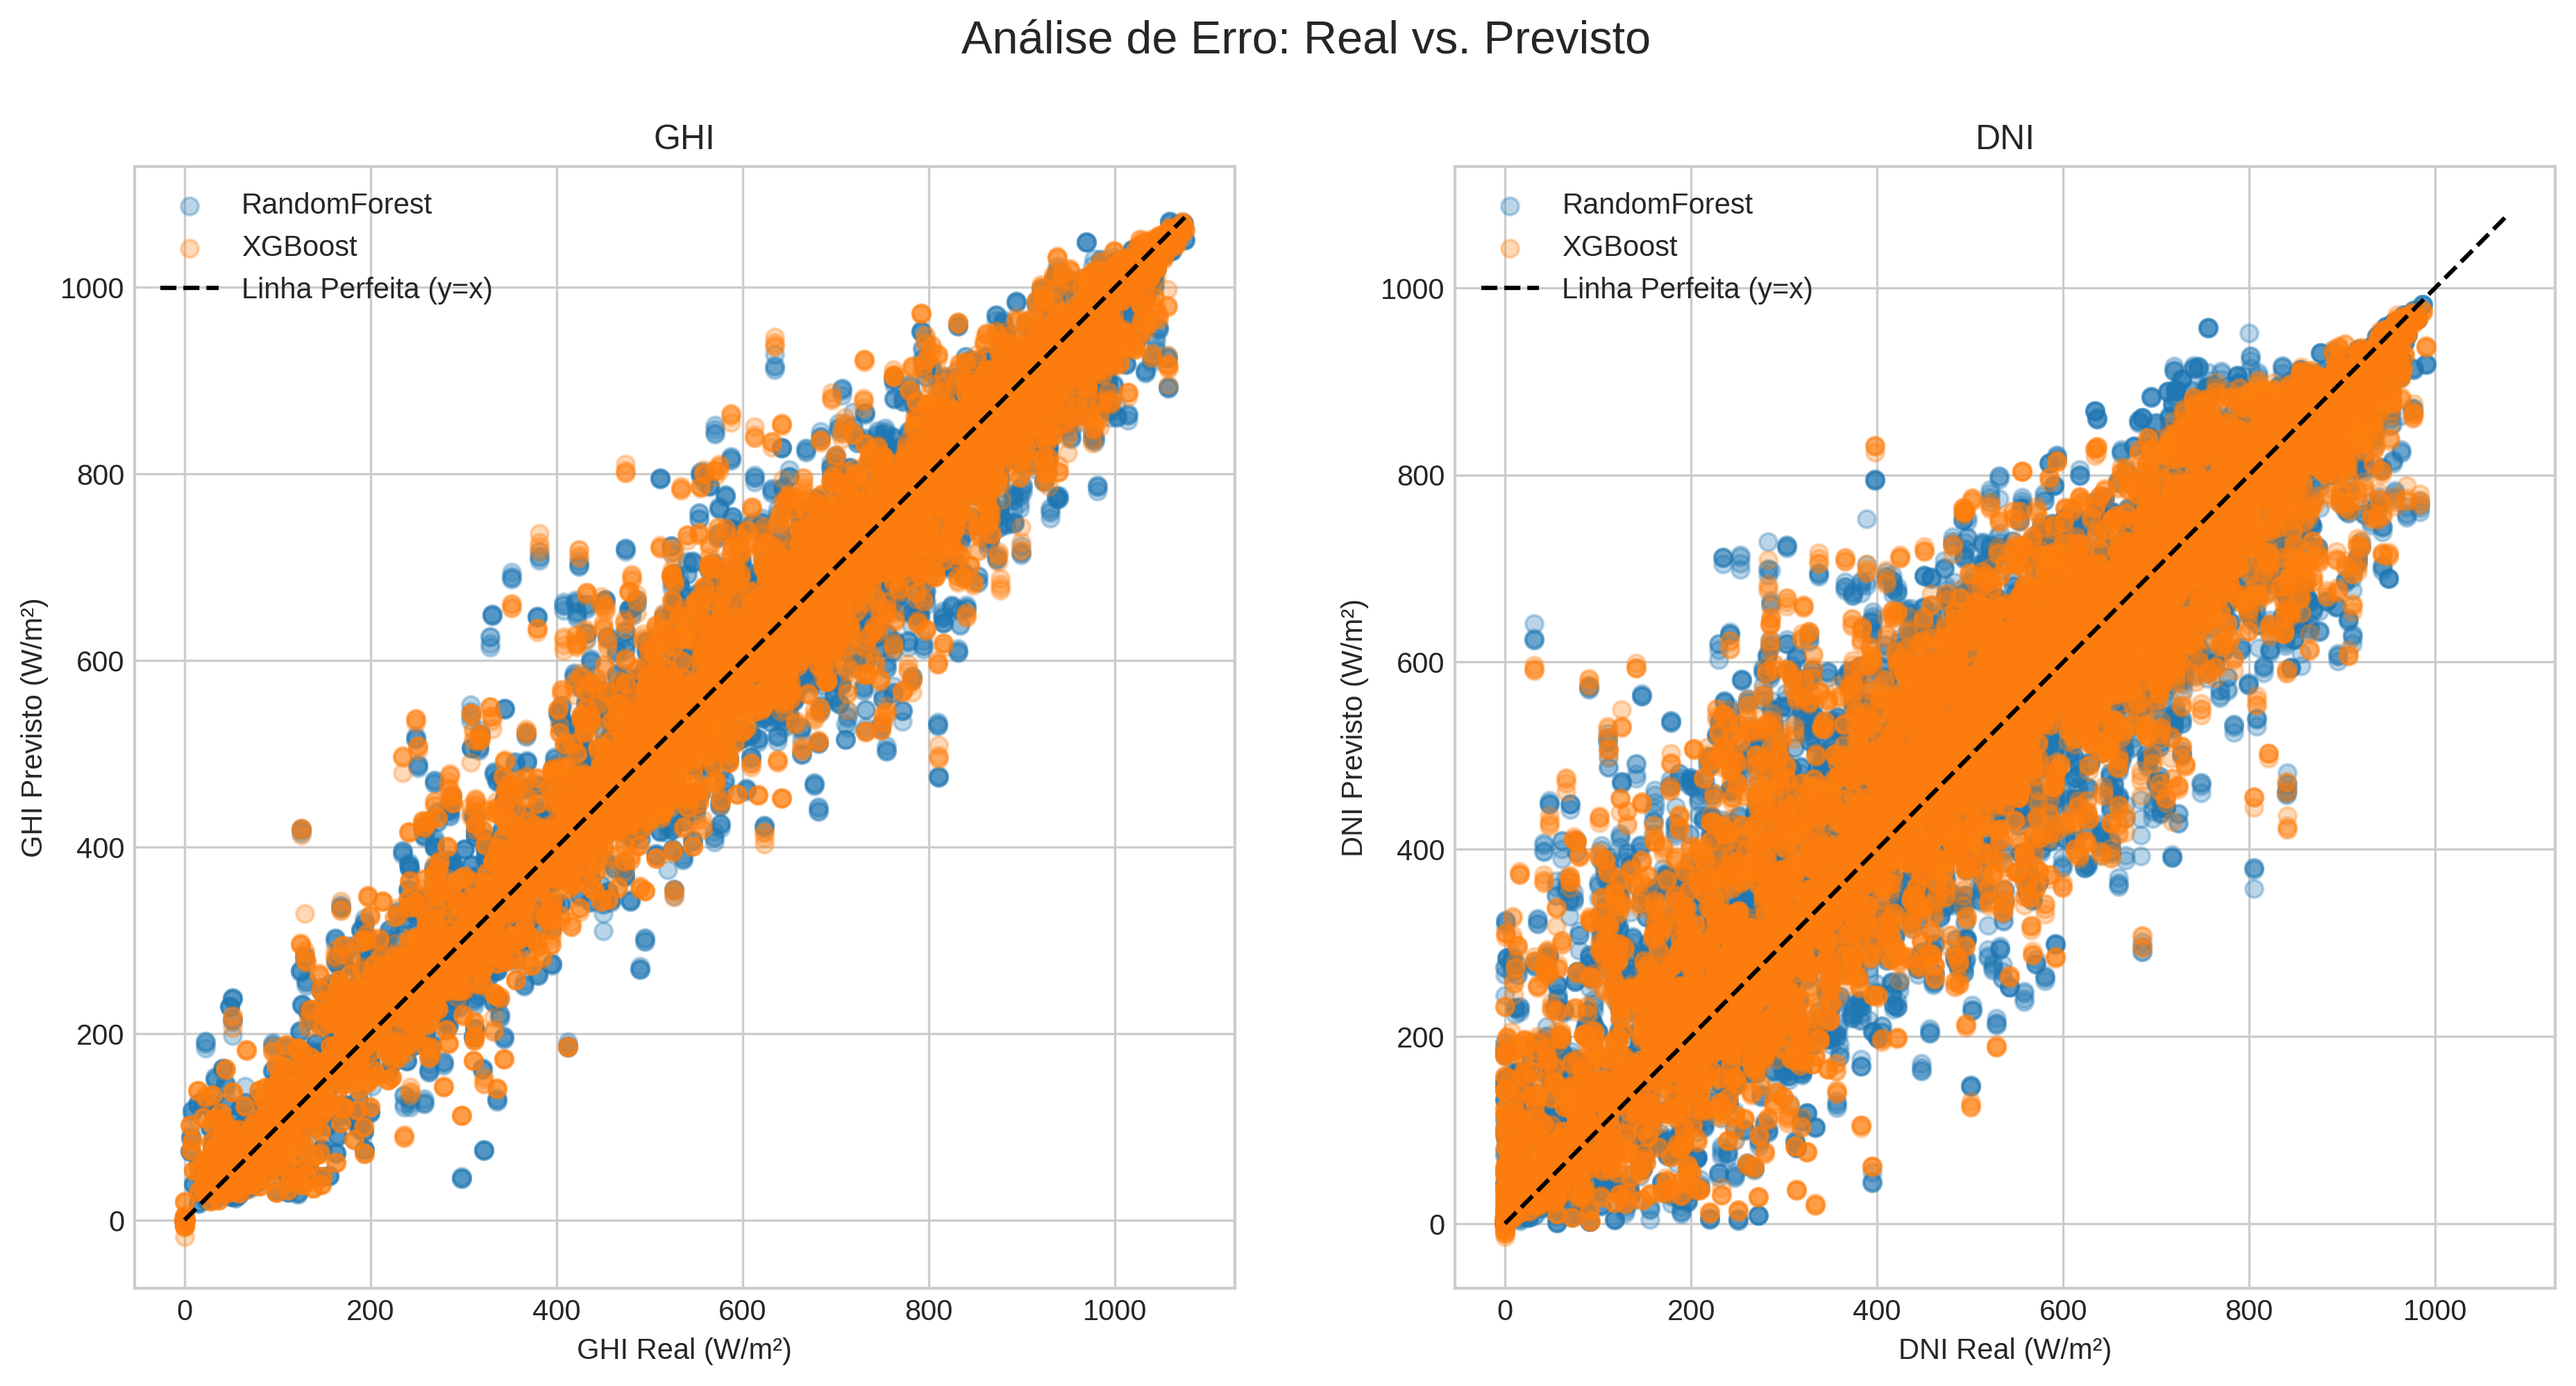
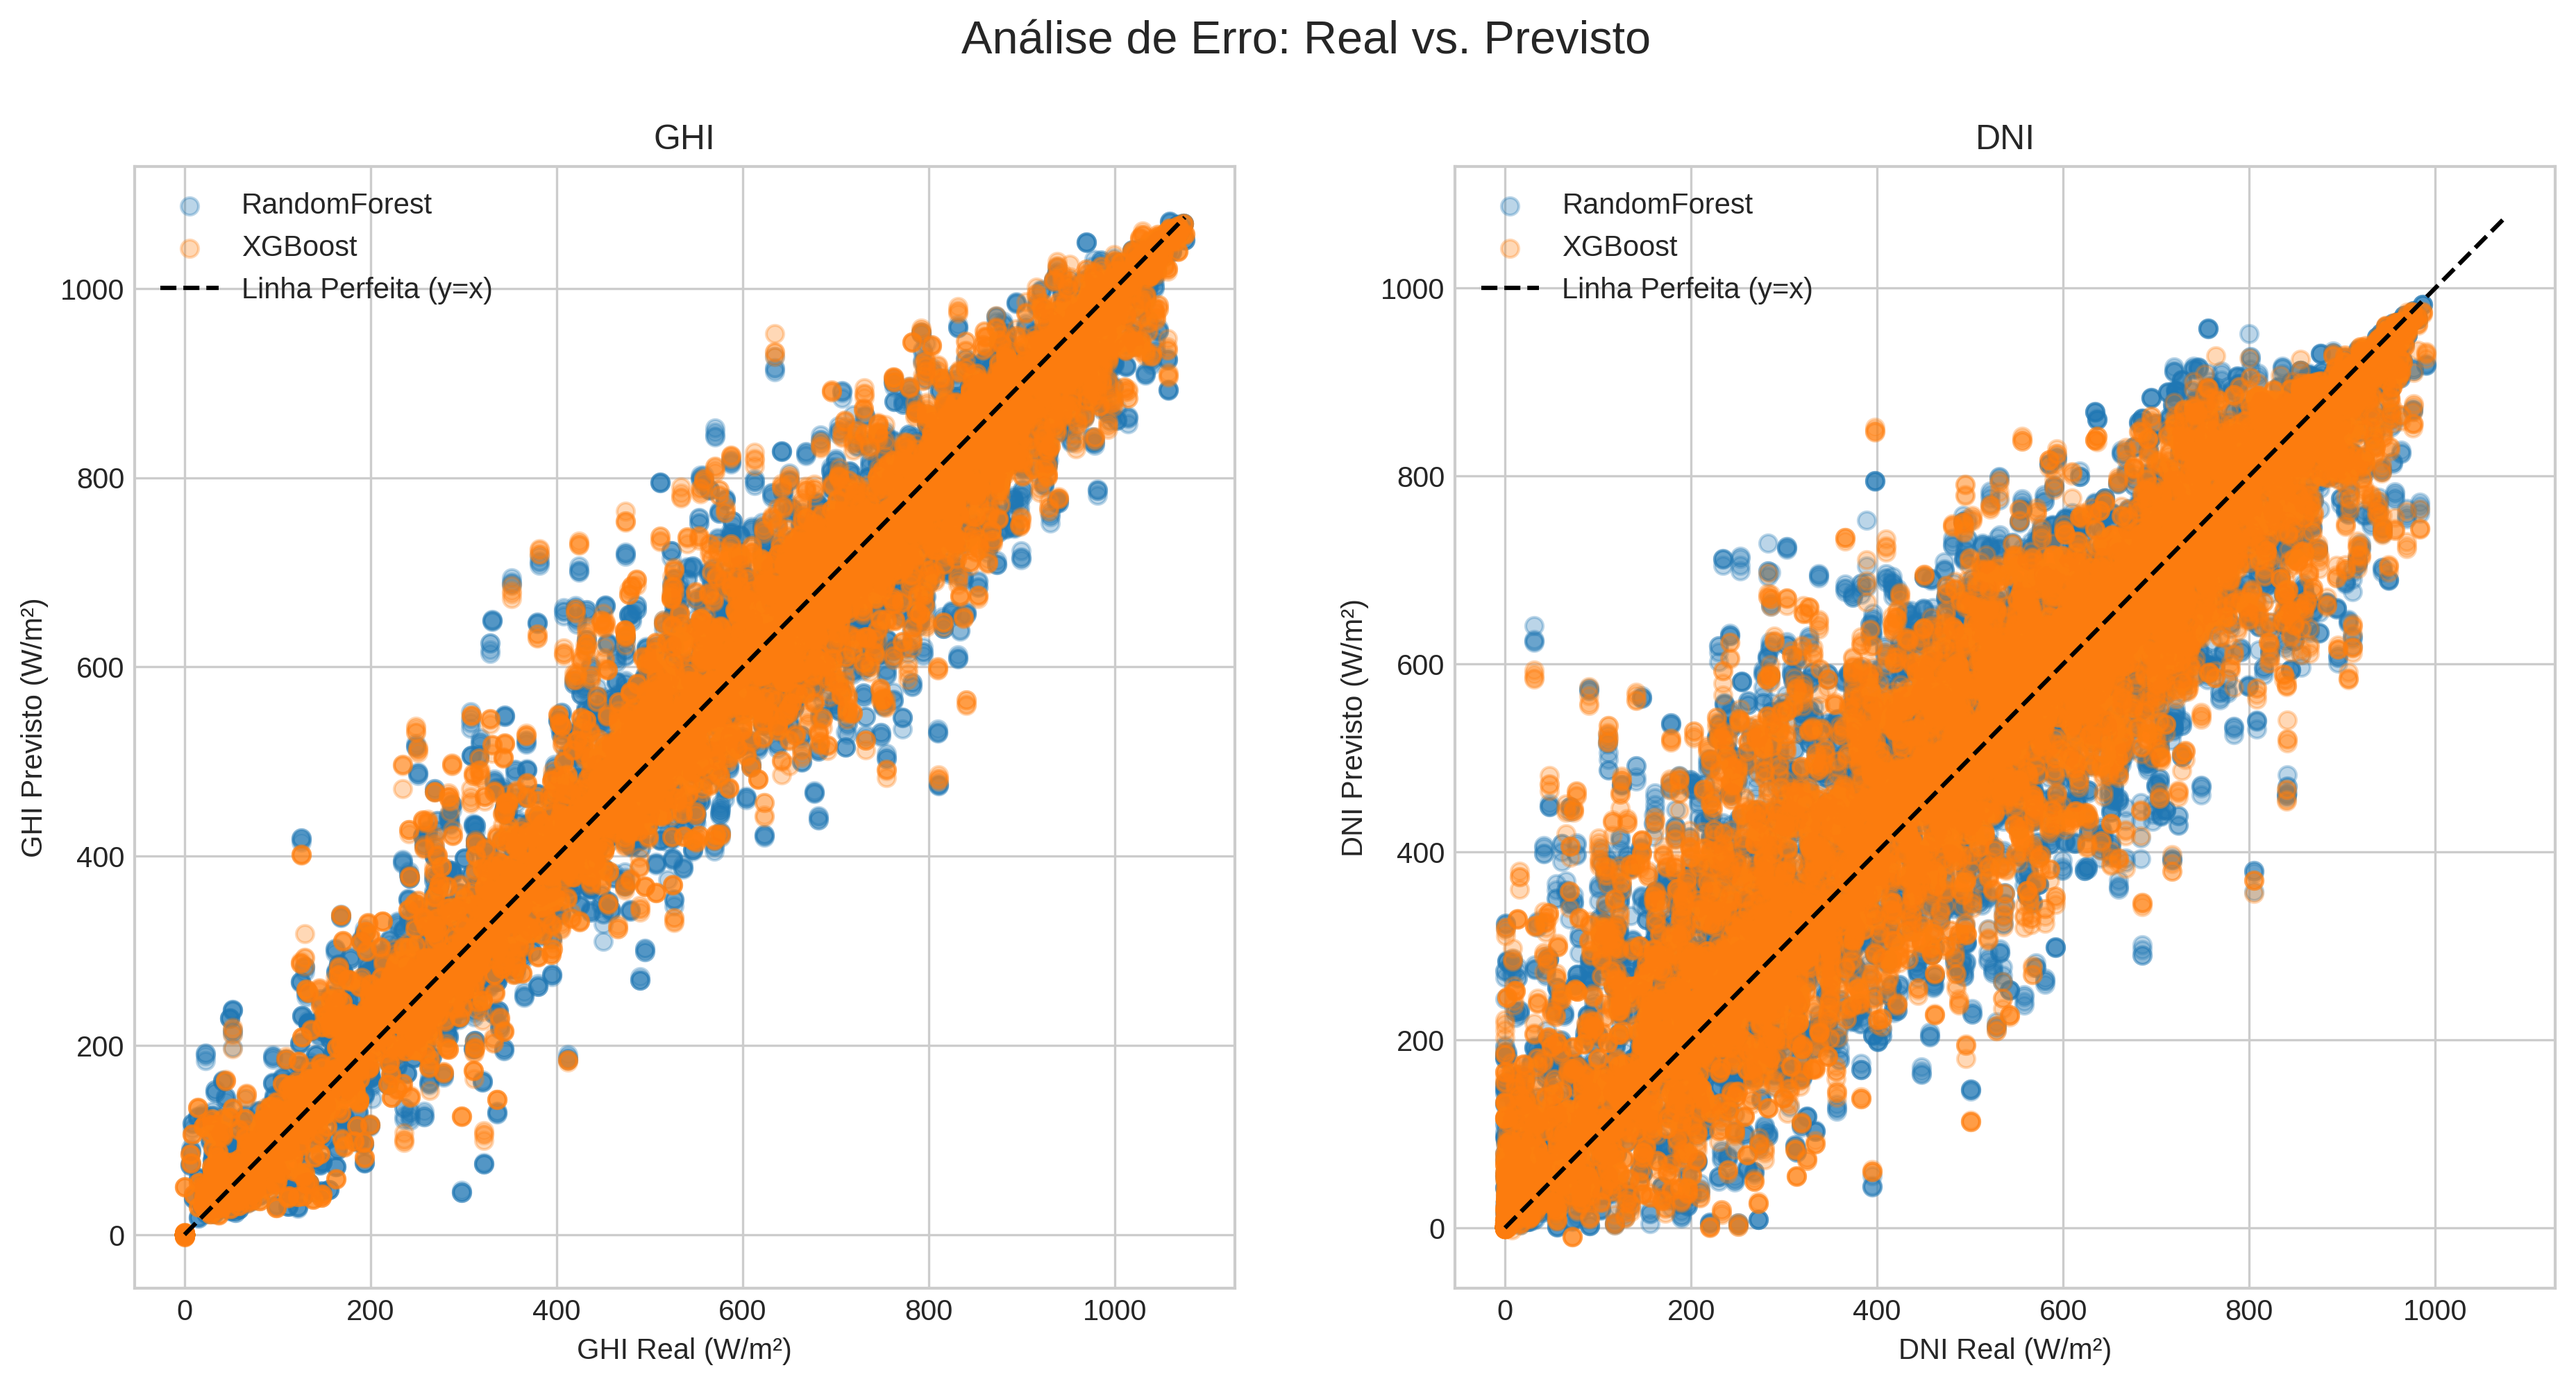
Melhoria de hiperparâmetros do XGBoost

diff --git a/train-xgboost.py b/train-xgboost.py
@@ -18,20 +18,26 @@ except FileNotFoundError:
 
 # XGBoost pode treinar um modelo para cada alvo separadamente.
 xgb_model_ghi = xgb.XGBRegressor(
-    n_estimators=1000,         # Começamos com um número alto de árvores
+    n_estimators=800,          # Começamos com um número alto de árvores
     learning_rate=0.05,        # Taxa de aprendizado
     n_jobs=-1,                 # Usa todos os núcleos da CPU
     random_state=42,
-    early_stopping_rounds=50   # Para o treino se não houver melhora em 50 rodadas
+    early_stopping_rounds=50,  # Para o treino se não houver melhora em 50 rodadas
+    max_depth=9,               # Profundidade máxima das árvores
+    subsample=0.9,             # Amostra 90% dos dados para cada árvore
+    colsample_bytree=0.93      # Amostra 80% das features para cada árvore
 )
 
 # Faremos o mesmo para o DNI
 xgb_model_dni = xgb.XGBRegressor(
-    n_estimators=1000,
-    learning_rate=0.05,
-    n_jobs=-1,
+    n_estimators=800,          # Começamos com um número alto de árvores
+    learning_rate=0.05,        # Taxa de aprendizado
+    n_jobs=-1,                 # Usa todos os núcleos da CPU
     random_state=42,
-    early_stopping_rounds=50
+    early_stopping_rounds=50,  # Para o treino se não houver melhora em 50 rodadas
+    max_depth=9,               # Profundidade máxima das árvores
+    subsample=0.9,             # Amostra 90% dos dados para cada árvore
+    colsample_bytree=0.93      # Amostra 80% das features para cada árvore
 )
 
 print("\nIniciando o treinamento do modelo... (Isso pode levar alguns minutos)")
